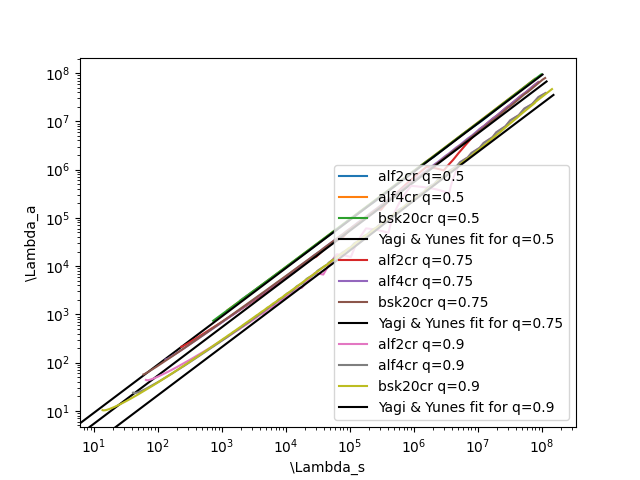
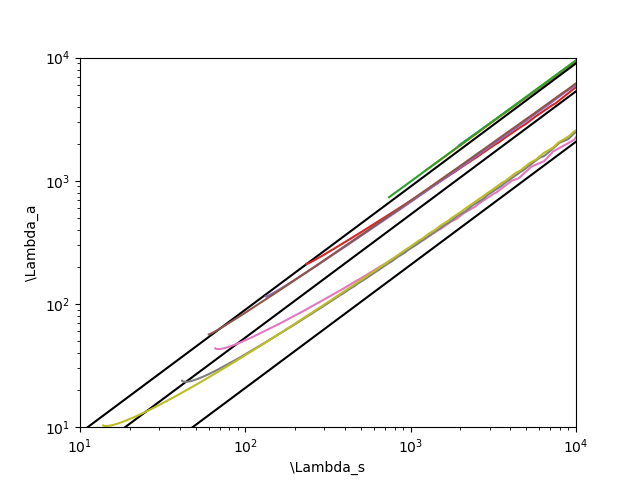
no curve in fits

diff --git a/fits.py b/fits.py
@@ -12,9 +12,9 @@ class YagiYunes:
 
         self.n = 0.743
 
-    def f(self):
-        numerator = 1 - self.q**(10 / (3 - self.n))
-        denominator = 1 + self.q**(10 / (3 - self.n))
+    def f(self, q): # not sure if should pass q upon init or only in f
+        numerator = 1 - q**(10 / (3 - self.n))
+        denominator = 1 + q**(10 / (3 - self.n))
         return numerator / denominator
 
     def func(self, lambda_s):
@@ -26,7 +26,7 @@ class YagiYunes:
                 denominator_sum += (self.c[i-1, j-1] * self.q**j * lambda_s**(-i / 5))
 
         fraction = (1 + numerator_sum) / (1 + denominator_sum)
-        result = self.f() * lambda_s * fraction
+        result = self.f(self.q) * lambda_s * fraction
         return result
 
     def plot(self, ax, **kwargs):

diff --git a/main.py b/main.py
@@ -20,18 +20,19 @@ def plot_main(names, qs):
         fit = YagiYunes(q=q)
         fit.plot(ax=ax)
 
-    ax_min = 1
-    ax_max = 1e5
+    ax_min = 1e1
+    ax_max = 1e4
 
-    # ax.set_ylim((ax_min, ax_max))
-    # ax.set_xlim((ax_min, ax_max))
+    ax.set_ylim((ax_min, ax_max))
+    ax.set_xlim((ax_min, ax_max))
 
     ax.set_xscale('log')
     ax.set_yscale('log')
 
     ax.set_xlabel(r'\Lambda_s')
     ax.set_ylabel(r'\Lambda_a')
-    plt.legend()
+
+    # plt.legend()
 
     plt.savefig('plots/plot.png')
 
@@ -47,6 +48,7 @@ def plot_raw(names):
 
     ax.set_xlabel(r'm')
     ax.set_ylabel(r'\Lambda(m)')
+    fig.suptitle('Raw plot for lambda(m) vs m for various EOS')
     plt.legend()
 
     plt.savefig('plots/raw_plot.png')

diff --git a/data_loader.py b/data_loader.py
@@ -13,5 +13,10 @@ class DataLoader:
                 ms.append(float(row[2]))
                 Lambdas.append(float(row[3]))
 
-        self.ms = np.array(ms)
-        self.Lambdas = np.array(Lambdas)
+        ms = np.array(ms)
+        Lambdas = np.array(Lambdas)
+
+        injectivity_index = np.nonzero(ms == np.max(ms))[0][0]
+
+        self.ms = ms[:injectivity_index]
+        self.Lambdas = Lambdas[:injectivity_index]

diff --git a/eos.py b/eos.py
@@ -7,8 +7,8 @@ class EOS:
         self.name = name
         self.q = q
 
-        self.ms = data.ms[:np.nonzero(data.ms == np.max(data.ms))[0][0]]
-        self.Lambdas = data.Lambdas[:np.nonzero(data.ms == np.max(data.ms))[0][0]]
+        self.ms = data.ms
+        self.Lambdas = data.Lambdas
 
         self.lambda_f = sp.interpolate.interp1d(x=self.ms, y=self.Lambdas)
 
